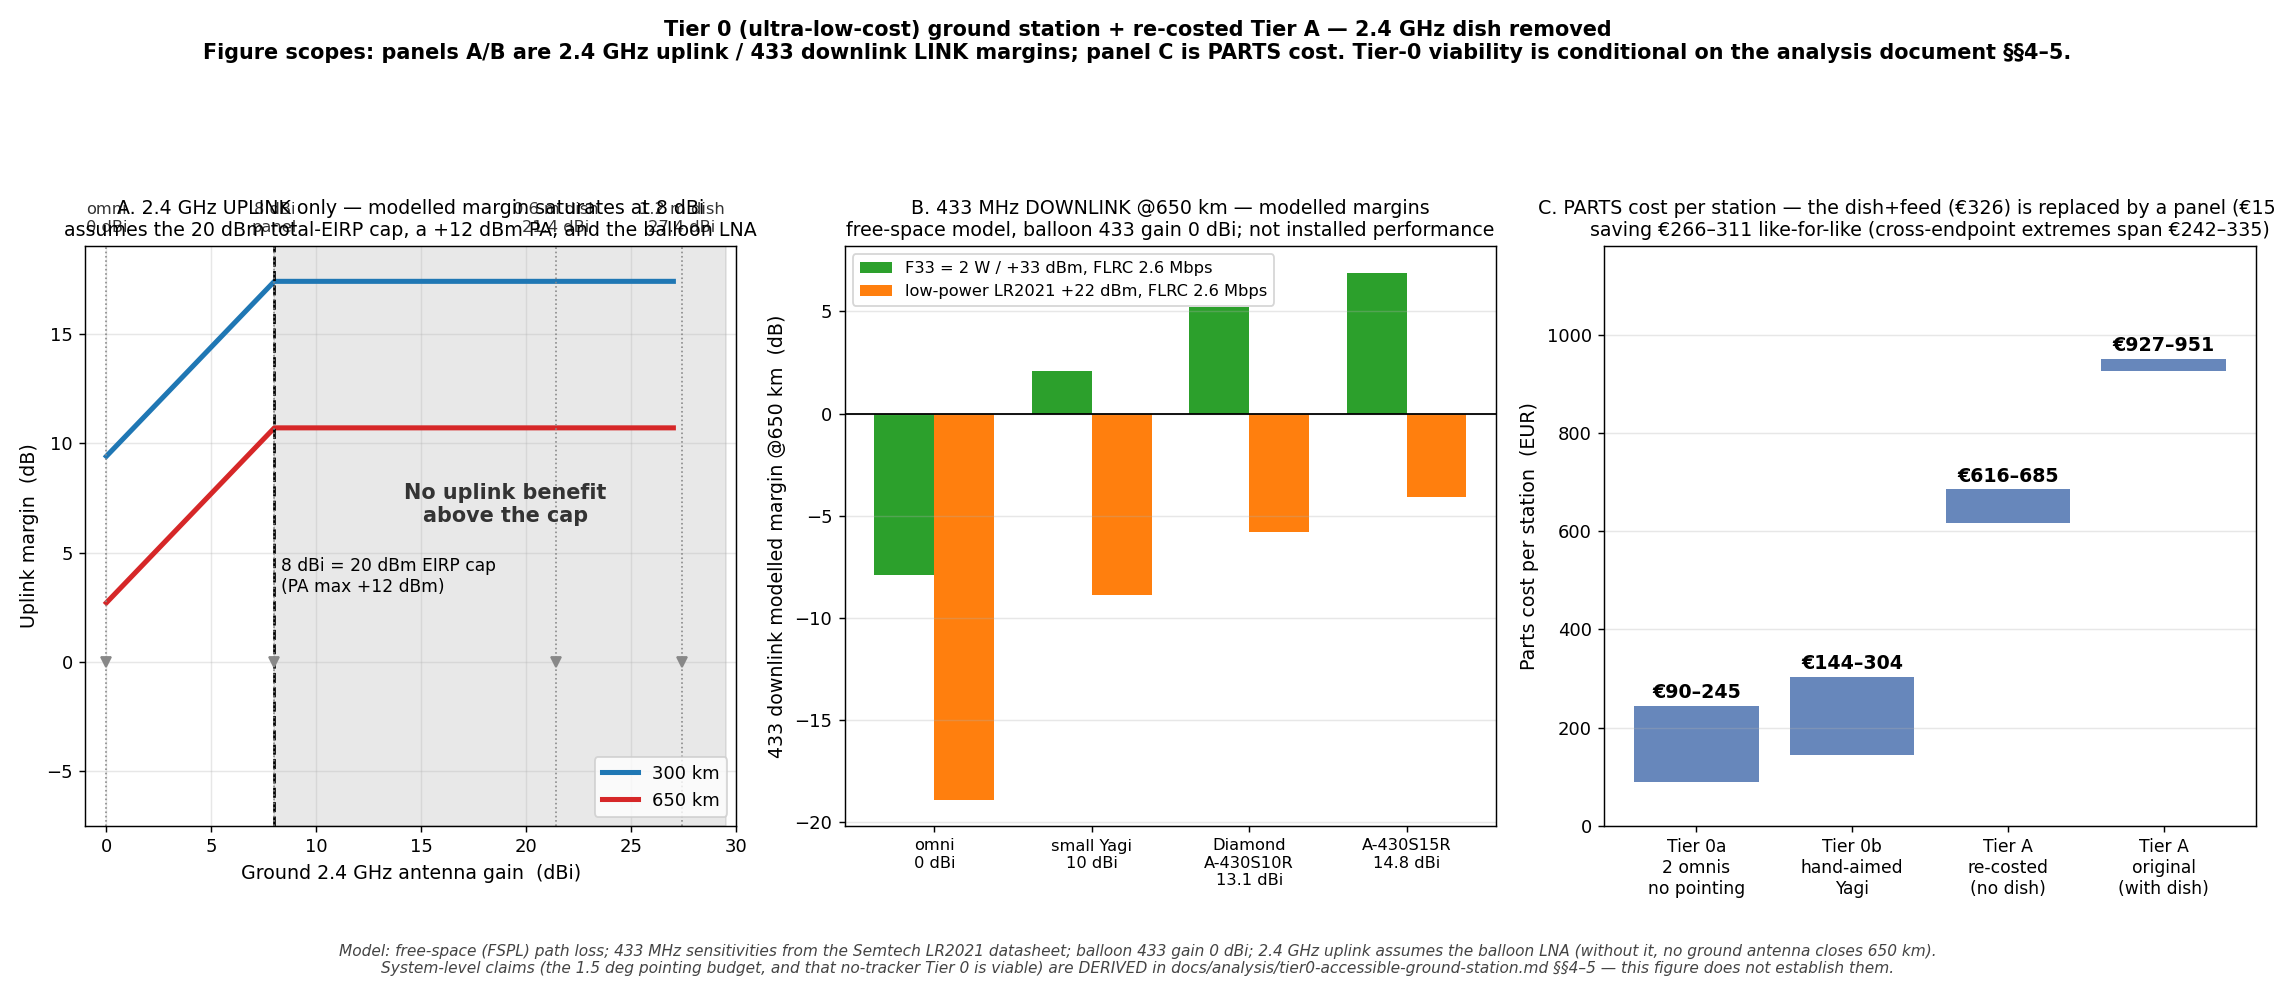
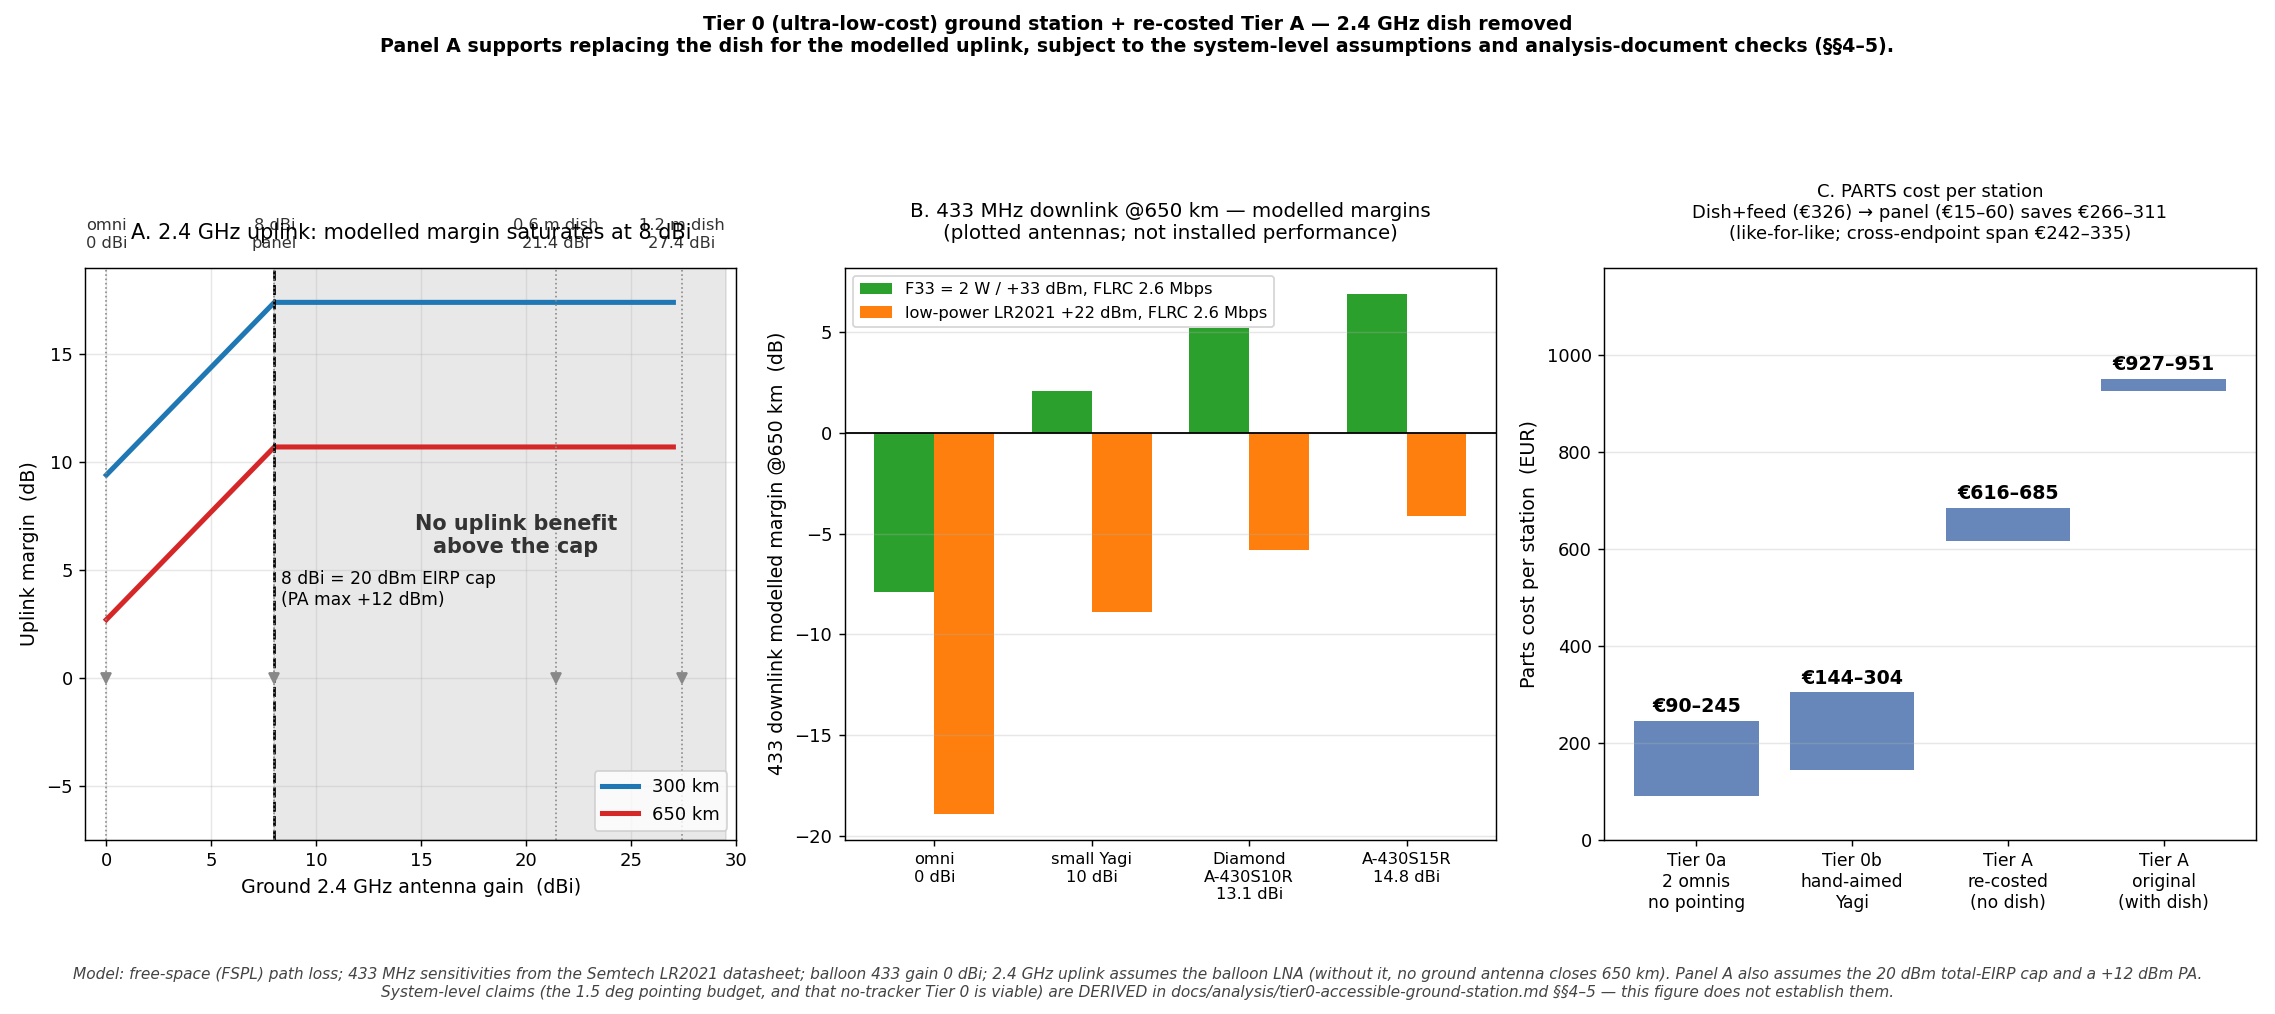
analysis(tier0): consult rounds 3-6 -> PASS; normalise figures; final polish

diff --git a/docs/analysis/render_tier0_figure.py b/docs/analysis/render_tier0_figure.py
@@ -14,7 +14,7 @@ import matplotlib.pyplot as plt
 OUT = os.path.join(os.path.dirname(__file__), "figures", "tier0-eirp-capped-uplink.png")
 os.makedirs(os.path.dirname(OUT), exist_ok=True)
 
-fig, axes = plt.subplots(1, 3, figsize=(17.5, 7.6))
+fig, axes = plt.subplots(1, 3, figsize=(17.5, 7.8))
 
 # ---------------------------------------------------------------- Panel A ----
 ax = axes[0]
@@ -26,22 +26,20 @@ ax.plot(g, [margin(x, FSPL300) for x in g], lw=2.8, color="#1f77b4", label="300 
 ax.plot(g, [margin(x, FSPL650) for x in g], lw=2.8, color="#d62728", label="650 km")
 ax.axvline(8, color="k", ls="--", lw=1.5)
 ax.axvspan(8, 29.5, color="grey", alpha=0.18)
-ax.text(8.3, 3.2, "8 dBi = 20 dBm EIRP cap\n(PA max +12 dBm)", fontsize=9.5)
-ax.text(19.0, 6.4, "No uplink benefit\nabove the cap", ha="center", fontsize=11.5,
+ax.text(8.3, 3.4, "8 dBi = 20 dBm EIRP cap\n(PA max +12 dBm)", fontsize=9.5)
+ax.text(19.5, 5.8, "No uplink benefit\nabove the cap", ha="center", fontsize=11.5,
         weight="bold", color="#333")
 for xn, lab in [(0, "omni\n0 dBi"), (8, "8 dBi\npanel"), (21.4, "0.6 m dish\n21.4 dBi"),
                 (27.4, "1.2 m dish\n27.4 dBi")]:
     ax.axvline(xn, color="#888", lw=0.9, ls=":")
     ax.plot([xn], [0], marker="v", color="#888", ms=6)
-    ax.text(xn, 1.02, lab, transform=ax.get_xaxis_transform(), ha="center", va="bottom",
+    ax.text(xn, 1.03, lab, transform=ax.get_xaxis_transform(), ha="center", va="bottom",
             fontsize=9, color="#333")
 ax.set_xlim(-1.0, 30.0)
 ax.set_ylim(-7.5, 19)
 ax.set_xlabel("Ground 2.4 GHz antenna gain  (dBi)", fontsize=10.5)
 ax.set_ylabel("Uplink margin  (dB)", fontsize=10.5)
-ax.set_title("A. 2.4 GHz UPLINK only — modelled margin saturates at 8 dBi\n"
-             "assumes the 20 dBm total-EIRP cap, a +12 dBm PA, and the balloon LNA",
-             fontsize=10.5)
+ax.set_title("A. 2.4 GHz uplink: modelled margin saturates at 8 dBi", fontsize=11.5, pad=16)
 ax.grid(alpha=0.3)
 ax.legend(loc="lower right", fontsize=10)
 
@@ -57,9 +55,8 @@ ax.bar([i + w/2 for i in x], m_lp, w, color="#ff7f0e", label="low-power LR2021 +
 ax.axhline(0, color="k", lw=1.0)
 ax.set_xticks(list(x)); ax.set_xticklabels(labels, fontsize=9)
 ax.set_ylabel("433 downlink modelled margin @650 km  (dB)", fontsize=10.5)
-ax.set_title("B. 433 MHz DOWNLINK @650 km — modelled margins\n"
-             "free-space model, balloon 433 gain 0 dBi; not installed performance",
-             fontsize=10.5)
+ax.set_title("B. 433 MHz downlink @650 km — modelled margins\n(plotted antennas; not installed performance)",
+             fontsize=11, pad=16)
 ax.grid(alpha=0.3, axis="y"); ax.legend(fontsize=9, loc="upper left")
 
 # ---------------------------------------------------------------- Panel C ----
@@ -69,24 +66,23 @@ lo = [90, 144, 616, 926.9]; hi = [245, 304, 685, 950.9]
 x = range(len(names))
 ax.bar(x, [h - l for h, l in zip(hi, lo)], bottom=lo, color="#4c72b0", alpha=0.85)
 for i, (l, h) in enumerate(zip(lo, hi)):
-    ax.text(i, h + 16, f"€{l:.0f}–{h:.0f}", ha="center", fontsize=10.5, weight="bold")
+    ax.text(i, h + 18, f"€{l:.0f}–{h:.0f}", ha="center", fontsize=10.5, weight="bold")
 ax.set_xticks(list(x)); ax.set_xticklabels(names, fontsize=9.5)
 ax.set_ylabel("Parts cost per station  (EUR)", fontsize=10.5)
-ax.set_title("C. PARTS cost per station — the dish+feed (€326) is replaced by a panel (€15–60),\n"
-             "saving €266–311 like-for-like (cross-endpoint extremes span €242–335)", fontsize=10.5)
+ax.set_title("C. PARTS cost per station\nDish+feed (€326) → panel (€15–60) saves €266–311\n(like-for-like; cross-endpoint span €242–335)",
+             fontsize=10, pad=16)
 ax.grid(alpha=0.3, axis="y"); ax.set_ylim(0, 1180)
 
 fig.suptitle("Tier 0 (ultra-low-cost) ground station + re-costed Tier A — 2.4 GHz dish removed\n"
-             "Figure scopes: panels A/B are 2.4 GHz uplink / 433 downlink LINK margins; panel C is PARTS cost. "
-             "Tier-0 viability is conditional on the analysis document §§4–5.",
-             fontsize=11.5, weight="bold")
-fig.text(0.5, 0.012,
+             "Panel A supports replacing the dish for the modelled uplink, subject to the system-level assumptions and analysis-document checks (§§4–5).",
+             fontsize=10.5, weight="bold", y=0.985)
+fig.text(0.5, 0.014,
          "Model: free-space (FSPL) path loss; 433 MHz sensitivities from the Semtech LR2021 datasheet; balloon 433 gain 0 dBi; "
-         "2.4 GHz uplink assumes the balloon LNA (without it, no ground antenna closes 650 km).\n"
+         "2.4 GHz uplink assumes the balloon LNA (without it, no ground antenna closes 650 km). Panel A also assumes the 20 dBm total-EIRP cap and a +12 dBm PA.\n"
          "System-level claims (the 1.5 deg pointing budget, and that no-tracker Tier 0 is viable) are DERIVED in "
          "docs/analysis/tier0-accessible-ground-station.md §§4–5 — this figure does not establish them.",
          ha="center", va="bottom", fontsize=8.5, style="italic", color="#444")
 
-fig.tight_layout(rect=[0, 0.075, 1, 0.885])
+fig.tight_layout(rect=[0, 0.085, 1, 0.90])
 fig.savefig(OUT, dpi=130)
 print("wrote", OUT)

diff --git a/docs/analysis/tier0-accessible-ground-station.md b/docs/analysis/tier0-accessible-ground-station.md
@@ -61,12 +61,13 @@ session (Brave 429, DuckDuckGo 202, Mojeek captcha, Ecosia 403) — so the *new*
 |---|---|---|---|
 | **Tier 0a — no pointing at all** | **two omnis** on a fixed mast (2.4 GHz uplink + 433 LoRa downlink). No motors, no printing, no tracker. | **≈ €90–245** | Low-power LR2021 board: 433 **LoRa** downlink (+13.7 dB @650 km) and 2.4 GHz uplink (+5.7 dB @650 km). **Bit-rate limited.** |
 | **Tier 0b — hand-aimed** | one **13.1 dBi 433 Yagi** (€69) + 2.4 GHz omni, on a **manual pan-tilt/tripod**. Still no motors. | **≈ €145–305** | Adds **F33 FLRC 2.6 Mbps to 650 km** (+5.2 dB) with a human pointing the Yagi. |
-| **Tier A — re-costed** | same as before **minus the 2.4 GHz dish + feed** (€325.90), **plus** a cheap 8 dBi 2.4 GHz panel. | **≈ €545–685** (from **≈ €927–951** as line-itemed) | Everything Tier 0b does, **unattended**, + 433 margin (+6.9 dB @650 km on F33/2.6 Mbps). |
+| **Tier A — re-costed** | same as before **minus the 2.4 GHz dish + feed** (€325.90), **plus** a cheap 8 dBi 2.4 GHz panel. | **≈ €546–685** (from **≈ €927–951** as line-itemed) | Everything Tier 0b does, **unattended**, + 433 margin (+6.9 dB @650 km on F33/2.6 Mbps). |
 
 **The headline claim, stated precisely** (adopting the round-4 consultant's wording):
 
 > *At the 20 dBm EIRP cap, modelled 2.4 GHz **uplink** margin saturates at 8 dBi ground gain; this
-> supports removal of the dish under the stated system assumptions.*
+> supports replacing the dish **for the modelled uplink**, subject to the system-level assumptions
+> and the analysis-document checks in §§4–5.*
 
 The dish was the single most expensive and most mechanically consequential item in Tier A.
 Removing it **costs €15–60 (an 8 dBi panel)** and **saves €266–311**. More importantly, it removes
@@ -272,12 +273,13 @@ The original Tier A' line items carried a **0.75 m Ku dish (€94.90)** + a **2.
   a small panel, far inside the G-450's 0.50 m² mast rating. Before, a dish on a mast needed the
   G-5500DC (€949) or bigger — that step is gone.
 
-**The saving, stated precisely.** Like-for-like (low-to-low, high-to-high) the re-cost saves
-**€266–311**; allowing all endpoint combinations the figure spans **€242–335**. The saving *is* the
-**dish + feed** (€325.90 hardware) minus the **panel** that replaces it (€15–60) = **€265.90–€310.90**
-(€266–311) — arithmetic that is exact, not modelled. (The old text said "€314.90"; that used the
-€220 LH-13XL feed instead of the €185 RS-ONE + €46 CLX1 actually quoted. Corrected to €325.90.) (Round-1 consultant, §8.1, correctly flagged that "€265–315" was being
-quoted as if it were a single exact interval; it is now given as a method-labelled range.)
+**The saving, stated precisely.** Like-for-like (cheap-end vs cheap-end, dear-end vs dear-end) the
+re-cost saves **€266–311**: the **dish + feed** (€325.90 hardware) minus the **panel** that replaces
+it (€15–60) = **€265.90–€310.90**. Allowing the cross-endpoint extremes the figure spans
+**€242–335** (€927 − €685 and €951 − €616). *(Correction: the first draft said €314.90 for the
+dish+feed, which used the €220 LH-13XL feed instead of the quoted €185 RS-ONE + €46 CLX1; the round-4
+consultant's "inconsistent saving" finding is what surfaced it. Corrected to **€325.90** here, in the
+re-cost table, and in ADR-069.)*
 
 **Reconciliation with the previously-stated "~€700".** That figure was quoted for **antenna +
 positioner only** (no coax/connectors, and with the cheap 2.4 GHz choice). On that same
@@ -303,7 +305,7 @@ labour cost, and no tier's figure should be read as a guaranteed saving in every
 | 433 FLRC 2.6 Mbps @650 km (low-power, no F33) | fails (−18.9) | fails (−5.8) | fails (−4.1) |
 | unattended / automatic | yes (but LoRa only) | **no — human points** | yes |
 | moving parts / firmware | none | none | motors + controller |
-| **cost (parts)** | **€90–245** | **€145–305** | **€545–685** |
+| **cost (parts)** | **€90–245** | **€144–304** | **€546–685** |
 
 ---
 
@@ -458,8 +460,29 @@ This round **found a real defect and a real over-claim**, and both were fixed:
 | "'the dish can be removed' / Tier-0-no-tracker is a system-level claim" | **Accepted.** The headline now says the plateau **supports but does not prove** Tier 0; §2's definition says Tier 0 is **proposed and conditional** on §5/§6; the figure suptitle and footnote say so. |
 | clipped/overlapping labels + footnote | **Accepted.** Figure rebuilt: taller canvas, reserved top annotation band, two-line wrapped footnote with its own bottom margin, shortened top labels. |
 
-**Round 5 — figure after the round-4 rebuild.** *(serve line + verdict recorded verbatim below once
-round 5 returns; the cycle is reported as it happened, not rounded up to a single approval.)*
+**Round 5 — CONDITIONAL PASS** (`gpt-6-astra`, 200). It **verified the corrected arithmetic itself**
+(€326 − €60 = €266; €326 − €15 = €311; €927 − €685 = €242; €951 − €616 = €335 — all consistent).
+Verbatim final line:
+
+> **VERDICT: CONDITIONAL PASS — cost arithmetic and qualification are now consistent, but fix the
+> Panel A title/label collision and widen or rewrap Panel C's title so "€15–60" is not clipped.**
+
+Actions: panel-A title shortened to one line with extra pad (assumptions moved to the footnote);
+panel-C title wrapped to three short lines; headline reworded to the round-5 suggested phrasing
+("supports replacing the dish **for the modelled uplink**, subject to …").
+
+**Round 6 — PASS** (`gpt-6-astra`, 200). Verbatim final line:
+
+> **VERDICT: PASS — the round-5 presentation issues are resolved, with only the stated conditional
+> interpretation required.**
+
+with "No material new over-claim remains."
+
+**Cycle summary (6 rounds, one served model):** REFUTE → PASS WITH MINOR REVISION → Minor revision
+→ NOT YET ACCEPTABLE → CONDITIONAL PASS → **PASS**. Twelve distinct findings, **all accepted and
+fixed**, one (the "balloon→ground receive link" caveat) partially applied with the architectural
+reason stated. Two of the findings were substantive, not cosmetic: the scoping of "inert gain" to
+the *uplink under the cap*, and the **€314.90 → €325.90 dish+feed arithmetic correction**.
 
 ---
 

diff --git a/PROGRESS.md b/PROGRESS.md
@@ -30,7 +30,19 @@ the 2.4 GHz dish is known to be unnecessary. Lead with the EIRP-cap question.
 - **Fixed** the figure (dish labels above the plot, legend lower-right, scoping footnote, panel
   titles) and the doc (§1.3 conditions, §1.4 qualification, §5 cross-reference, §4 parts-cost scope).
 - **Commit 2** `b8d4dd2` → github.
-- **Consult round 3** — running on the fixed figure; verdict to be appended to §8.3.
+- **Consult round 3** — `gpt-6-astra`, 200. **Minor revision still required** (panel-B "enough";
+  panel-C endpoint wording).
+- **Consult round 4** — `gpt-6-astra`, 200. **NOT YET ACCEPTABLE.** This round found a **real
+  defect**: the dish+feed is **€325.90**, not the €314.90 the first draft said — corrected
+  everywhere. Also: qualify "equivalent" (uplink-margin only), qualify Tier-0 as conditional,
+  rebuild the figure for label/footnote clearance.
+- **Consult round 5** — `gpt-6-astra`, 200. **CONDITIONAL PASS**; the model itself verified the
+  corrected arithmetic (€326−€60=€266 … €951−€616=€335). Fixed panel-A title collision + panel-C
+  title clipping; adopted the safer headline phrasing.
+- **Consult round 6** — `gpt-6-astra`, 200. **PASS**, "no material new over-claim".
+- **Cycle:** REFUTE → PASS-WITH-MINOR-REVISION → Minor → NOT-YET-ACCEPTABLE → CONDITIONAL PASS →
+  PASS (6 rounds, 12 findings, all fixed; §8 of the doc records every verdict verbatim).
+- **Commit 3** `cd4fe35` → github. **Commit 4** = rounds 3–6 + arithmetic fix → github + ngit.
 - **Search backends captcha-gated again** (Brave 429, DDG 202, Mojeek captcha, Ecosia 403, eBay 403,
   wimo/Reichelt search JS-gated) → new cheap items stay `TODO(unverified)`, never invented.
 

diff --git a/REPORT.md b/REPORT.md
@@ -54,11 +54,13 @@ the tightest element to the 433 Yagi's ~4°, which is *why* a no-tracker Tier 0 
 
 ## Consultation
 
-`scripts/fleet/visual_consult.py`, served model **`gpt-6-astra`** (read back from the response), three
-rounds: **round 1 qualified REFUTE** → **round 2 PASS WITH MINOR REVISION** → round 3 on the fixed
-figure. Verdicts recorded **verbatim** in the doc's §8, with every point actioned and the one
-partially-applied point (the "balloon→ground receive link" caveat, which does not apply because the
-2.4 GHz ground antenna is TX-only) explained rather than smoothed over.
+`scripts/fleet/visual_consult.py`, served model **`gpt-6-astra`** (read back from the response),
+**six rounds**: REFUTE → PASS WITH MINOR REVISION → Minor revision → **NOT YET ACCEPTABLE** →
+CONDITIONAL PASS → **PASS**. Verdicts recorded **verbatim** in the doc's §8, with every finding
+actioned. Two were substantive, not cosmetic: scoping "inert gain" to the *uplink under the cap*,
+and the consultant surfacing a **real arithmetic error** in the dish+feed cost (**€314.90 → €325.90**).
+The one partially-applied point (the "balloon→ground receive link" caveat) is explained, not smoothed
+over: the ground 2.4 GHz antenna is TX-only in this architecture.
 
 ## Git
 
